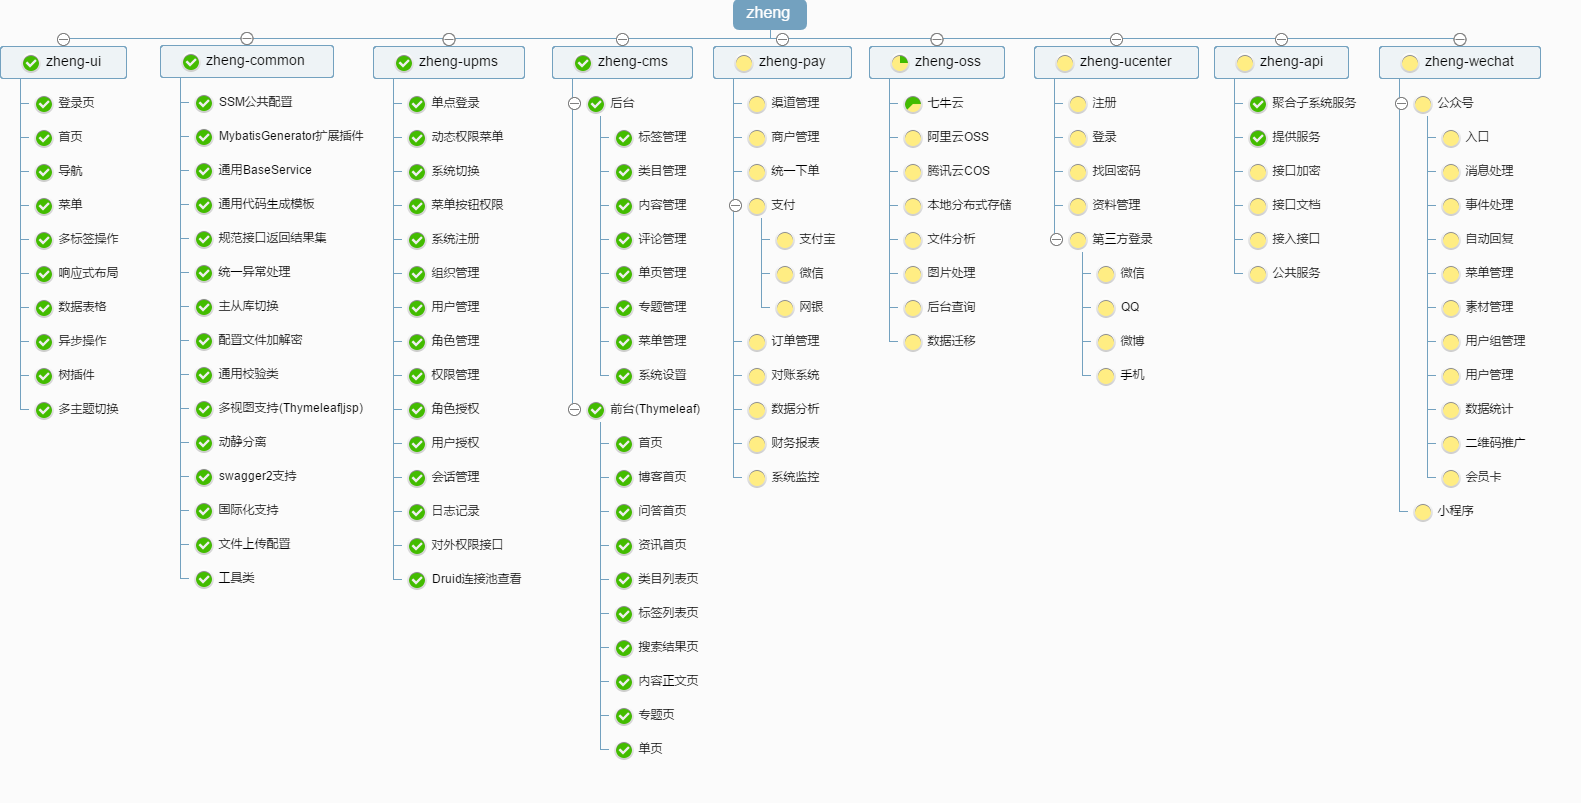
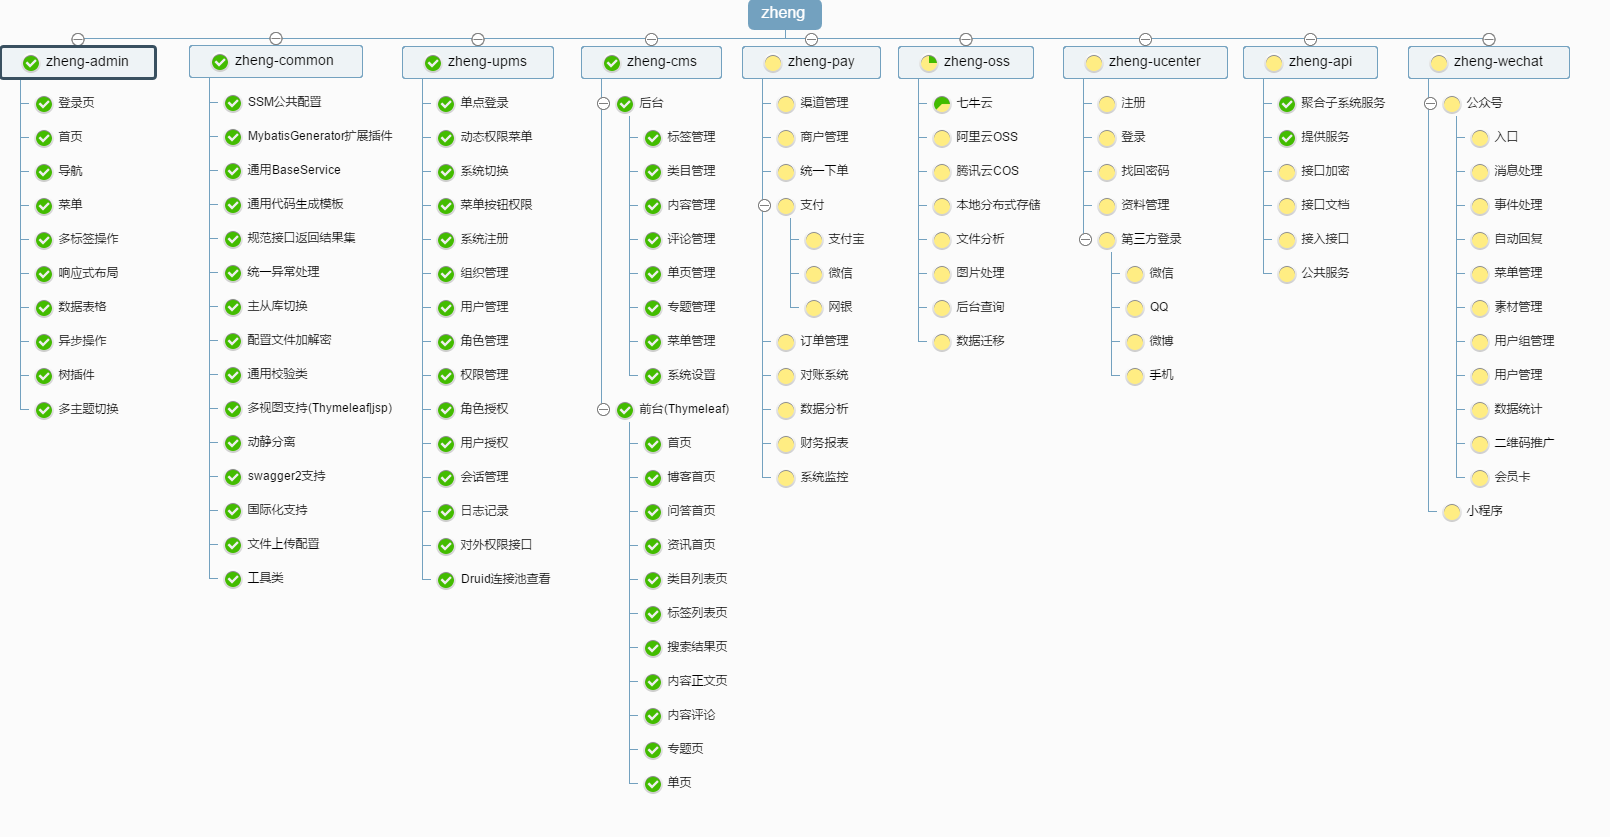
更新进度图

Changed region(s): [[0.0, 0.0, 0.9608, 0.9651]]

diff --git a/README.md b/README.md
@@ -135,6 +135,10 @@ Spring+SpringMVC+Mybatis框架集成公共模块，包括公共配置、MybatisG
 
 基于bootstrap实现的响应式Material Design风格的通用后台管理系统，`zheng`项目所有后台系统都是使用该模块界面作为前端展示。
 
+> zheng-ui
+
+各个子系统前台thymeleaf模板，前端资源模块，使用nginx代理，实现动静分离。
+
 > zheng-upms
 
 本系统是基于RBAC授权和基于用户授权的细粒度权限控制通用平台，并提供单点登录、会话管理和日志管理。接入的系统可自由定义组织、角色、权限、资源等。
@@ -207,7 +211,6 @@ Spring+SpringMVC+Mybatis框架集成公共模块，包括公共配置、MybatisG
 - Navicat for MySQL: 数据库客户端
 
 #### 开发环境：
-
 - Jdk7
 - Mysql5.5
 - Redis
@@ -264,7 +267,7 @@ zheng-admin、zheng-common => zheng-upms => 其他
 ```
 ![rpc-service启动演示](project-bootstrap/start_rpc.png) ![web启动演示](project-bootstrap/start_web.png)
 ```
-- 访问 [统一后台地址 http://upms.zhangshuzheng.cn:1111/ ](http://upms.zhangshuzheng.cn:1111/ "统一后台地址")，子系统菜单已经配置到zheng-upms权限中，不用直接访问子系统，默认帐号密码：admin/123456
+- 访问 [统一后台地址 http://upms.zhangshuzheng.cn:1111/]，子系统菜单已经配置到zheng-upms权限中，不用直接访问子系统，默认帐号密码：admin/123456
 
 - 登录成功后，可在右上角切换已注册系统访问
 ```
